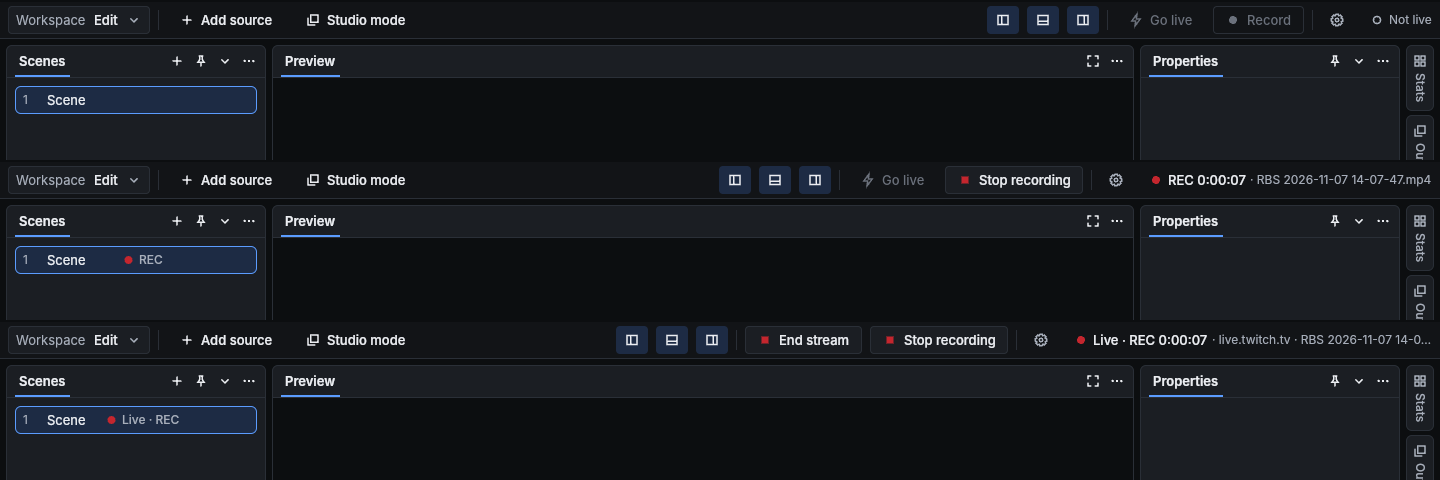
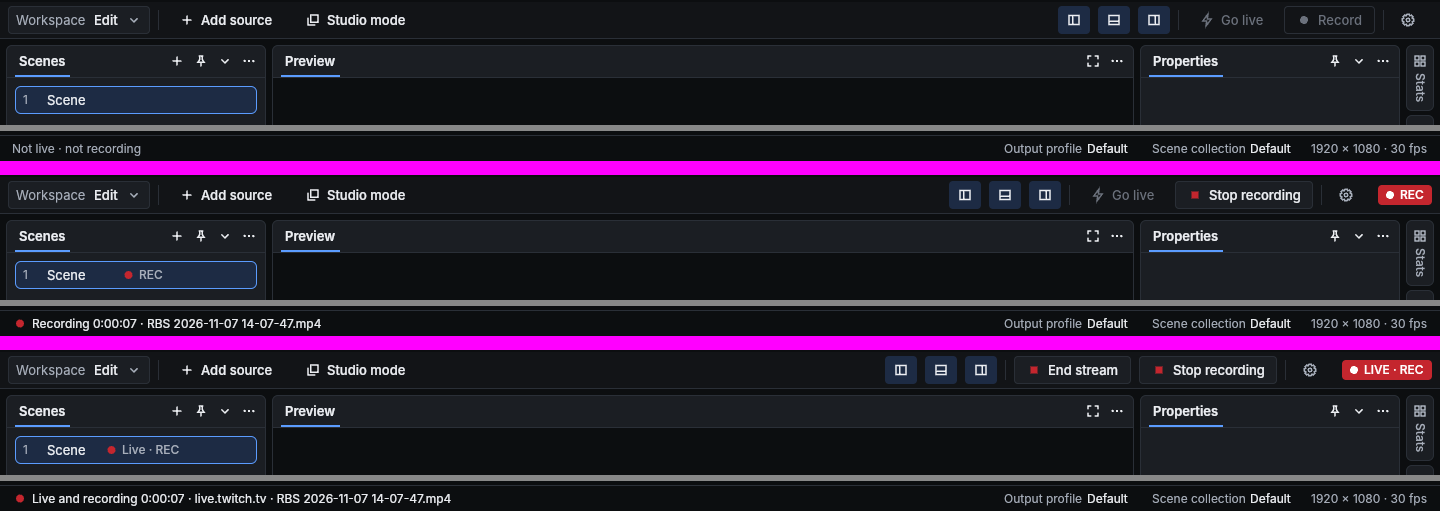
Live indicator: idle takes no room, so the last toolbar item ends the row
Spec and screenshots updated for the compact chip and the status bar text.

Claude-Session: https://claude.ai/code/session_01JNUCDS7DwTRtrqMTKJru4r

diff --git a/docs/specs/ui-design-system.md b/docs/specs/ui-design-system.md
@@ -125,7 +125,7 @@ The main window is a frame around a centre and three areas ([ADR-0049](../adr/00
 +--------------------------------------------------------------------------------+
 ```
 
-- **Frame.** Menu bar, toolbar, content, status bar. The menu bar is drawn in the window on Windows and Linux and lives in the system menu bar on macOS. The live indicator (U4, U21) is at the right end of the toolbar row on every platform. The toolbar can be hidden (View › Toolbar): its items go and its row stays as a slim strip that holds the live indicator, so the indicator never moves and never shares a row with the menu bar (a native Windows menu bar and Slint's drawn Linux menu bar cannot hold other elements). The menu bar cannot be hidden. The live indicator is compact and has no box or fill: idle, a `ring` and "Not live" in `type.caption` `text.secondary`; while live or recording, a `dot` in `state.live`, the short state ("Live", "REC" or "Live · REC") and the duration in `type.label` `text.primary`, then "· <outputs>" in `type.caption` `text.secondary`, ended with an ellipsis past `size.menu.sm`. Its accessible name always holds the whole text ("Live status: Recording 0:00:07 · <file>"). The live colour marks the state; it does not fill large areas (U12). Screenshots: `docs/ui/screenshots/live-indicator-{dark,light,high-contrast}.png` (not live, recording, live and recording).
+- **Frame.** Menu bar, toolbar, content, status bar. The menu bar is drawn in the window on Windows and Linux and lives in the system menu bar on macOS. The live indicator (U4, U21) is at the right end of the toolbar row on every platform. The toolbar can be hidden (View › Toolbar): its items go and its row stays as a slim strip that holds the live indicator, so the indicator never moves and never shares a row with the menu bar (a native Windows menu bar and Slint's drawn Linux menu bar cannot hold other elements). The menu bar cannot be hidden. The live indicator is compact: idle it is not shown at all (the status bar says "Not live · not recording", so the state is still in words, U4), and the toolbar's last item sits at the row's right end. While live or recording it is a small chip in `state.live` (`radius.sm`, `type.caption` in the label weight, `text.on.live`) with a `dot` and "REC", "LIVE" or "LIVE · REC". The duration and the outputs are in the status bar: a `dot` in `state.live`, then "Recording 0:00:07 · <file>", "Live 0:12:30 · not recording · <host>" or "Live and recording 0:12:30 · <host> · <file>". The indicator's accessible name holds the whole text ("Live status: Recording 0:00:07 · <file>"). While the status bar cannot be hidden, the frame does not repeat the duration and outputs; a hidden status bar (U21) will need the indicator to show them again. Screenshots: `docs/ui/screenshots/live-indicator-{dark,light,high-contrast}.png` (not live, recording, live and recording; toolbar row and status bar).
 - **Areas.** `left`, `right` and `bottom` hold panels around the `centre`. Each has a size in logical pixels (width, or height for `bottom`) and can be hidden and shown with its toolbar toggle or the View menu (no shortcut is bound by default, U21); hiding keeps its panels and size. Hide side panels (`ui.area.hide_all`) hides all three and Show side panels (`ui.area.show_all`) shows them again. An area that is visible but empty takes no space. The bottom area spans the full width under the other three. The centre always exists and takes the remaining space; with every area hidden and an empty centre it shows an empty state with Show areas and Reset layout (U10).
 - **Edge tabs.** Auto-hidden panels show as tabs on the left, right or bottom window edge (outside the areas, inside the frame); there are no top edge tabs, so nothing sits between the toolbar and the content. An edge with no auto-hidden panel takes no space. Edge tabs stay visible when their area is hidden. Floating windows have no areas: their stacks can collapse but not auto-hide.
 - **Look** (implemented, matching the owner's chosen mockup E): the content sits on `surface.base`. Each tab stack is a card: `surface.raised`, `radius.md`, a `border.subtle` line, with gaps of the layout's divider thickness (6 px) between cards and around them; a divider is invisible until hovered, dragged or focused, then drawn in `accent`. A card's header is `size.control.lg` high: its tabs as text, the shown one underlined in `accent` (2 px, no tab background), and on the right Auto-hide (`pin`), Collapse or Expand (`chevron-down` / `chevron-right`, reporting expanded or collapsed) and the panel menu (`more`); a right click on a tab opens that menu too. The centre's last expanded stack shows no Collapse and a centre of one stack no Auto-hide. Edge tabs are cards `size.control.md` wide with the panel's icon and its title turned along the edge; clicking one (or Enter or Space) slides its panel out over the dock area along that edge, `size` wide, as a card with Pin and Hide; Escape, Hide or the tab again slide it back, and pinning, closing or adding an auto-hidden panel slides it back too. The slid-out panel is reported to the preview layer like a toast (ADR-0054). Not yet: hover to open with its delay and grace period, and sliding animation. **Dragging a tab** (ADR-0049 decision 5, inside one window, not while the layout is locked) moves its panel: over a stack, its title row or middle drops the panel in as a tab, and the outer 30 % on each side puts it in a new stack on that side, sharing the stack's place half and half (one layout undo step); within 16 px of the dock area's edge it goes to that edge of the window (in the main window, that area's outer side). `rbs-ui` (`frame::drop_target`) decides the target; the shell shades the part the drop would fill in `accent.subtle` with an `accent` border, reported to the preview layer like a toast. Dropping a panel where nothing would change shows no guide. Tearing off to a new window and dropping into another window stay with the panel menu's Float and Dock for now. The toolbar row is `size.control.md` plus `space.1` above and below on `surface.base`: the Workspace picker as a bordered button reading "Workspace <name>", commands as ghost buttons with their icon before the title, area toggles as their icon alone (tinted `accent.subtle` while on, the title as accessible name), Go live as the one primary button and Record as a secondary button with a `dot` in the live colour. The status bar is `size.control.sm` plus two borders high on `surface.sunken`: live and recording state with duration in words, the stream's connection text, then on the right Output profile and Scene collection (each opens its menu, with New, Duplicate, Rename, Delete, Import and Export) and the canvas size and frame rate. It shows values the app already has and polls nothing (P13); bitrate, dropped frames, CPU and GPU come when a cheap source for them exists. Properties groups its fields under section captions (`type.caption`, uppercase, `text.secondary`): a header row with the source's icon, name and type, then Position and size, Crop and Shape and border; the number fields carry their label inside on the left in `text.secondary` (X, Y, W, H, Left, Right, Top, Bottom) with the value right-aligned. Mixer rows are `size.control.md` high: the kind's icon and the name, then a meter `space.3` thick. Text fields draw the caret 2 px wide in the selection colour (`accent`, selected text in `text.inverse`) so it shows on `surface.sunken` in every theme.
